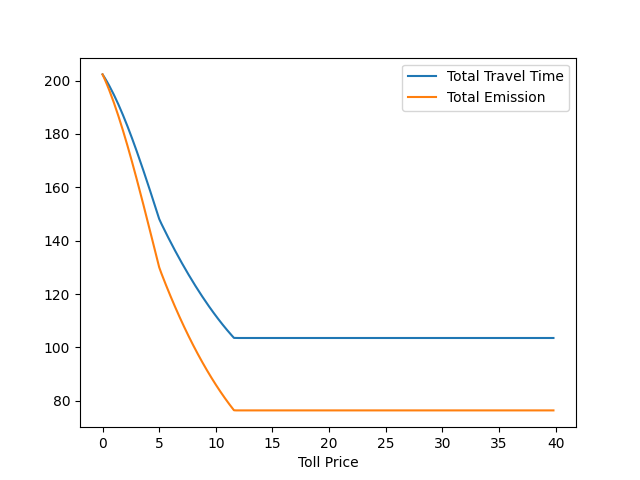
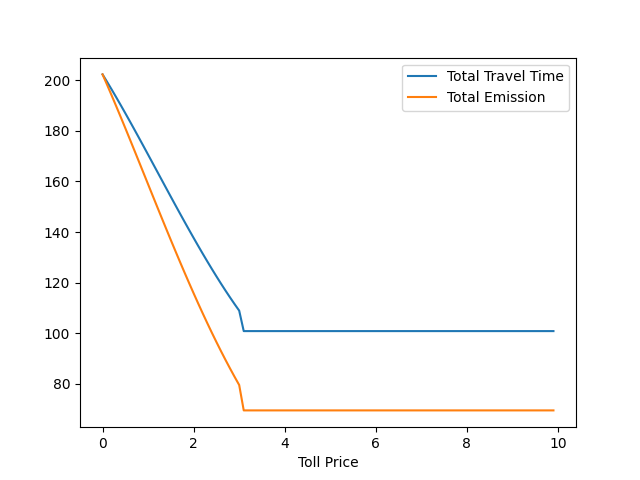
update data calibration pipeline

diff --git a/parameter_calibration.py b/parameter_calibration.py
@@ -17,7 +17,7 @@ df = df.dropna(subset = ["Zone_Toll"])[["dtMsgStartTime2", "siZoneID", "iPlazaID
 df = df.fillna(0)
 df = df[df["siZoneID"] == RELEVANT_ZONE]
 df["Time"] = pd.to_datetime(df["dtMsgStartTime2"]).dt.strftime("%H:%M")
-df = df[(df["Time"] >= RELEVANT_TIME[0]) & (df["Time"] <= RELEVANT_TIME[1])]
+#df = df[(df["Time"] >= RELEVANT_TIME[0]) & (df["Time"] <= RELEVANT_TIME[1])]
 df["Toll"] = df["Zone_Toll"].astype(float)
 df = df[["Time", "Toll"]].groupby(["Time"]).mean().reset_index().sort_values("Time")
 
@@ -30,6 +30,7 @@ df = df[["Time", "Toll"]].groupby(["Time"]).mean().reset_index().sort_values("Ti
 df_pop = pd.read_csv("pop_fraction.csv", thousands = ",")
 sigma_2over1 = df_pop["TwoPeople"].sum() * 2 / df_pop["Single"].sum()
 sigma_3over1 = df_pop["ThreePlus"].sum() * 3 / df_pop["Single"].sum()
+sigma_2over3 = (df_pop["TwoPeople"].sum() * 2) / (df_pop["ThreePlus"].sum() * 3)
 
 ## Load station data
 #df_station = pd.read_csv("d04_text_meta_2021_03_19.txt", sep = "\t")
@@ -48,64 +49,65 @@ df_flow = df_flow[(df_flow["Direction"] == "N") & (df_flow["Freeway"] == 880) & 
 df_flow = df_flow[df_flow["Station"].isin(RELEVANT_STATIONS)]
 df_flow["Time"] = pd.to_datetime(df_flow["Timestamp"]).dt.strftime("%H:%M")
 df_flow["HOV Flow"] = df_flow["Lane 0 Flow"]
-df_flow["HOV Avg Speed"] = df_flow["Lane 0 Avg Speed"]
+## convert per hour speed to per minute speed
+df_flow["HOV Avg Speed"] = df_flow["Lane 0 Avg Speed"] / 60
 df_flow["HOV Travel Time"] = df_flow["StationLength"] / df_flow["HOV Avg Speed"]
 df_flow["Ordinary Flow"] = 0
 df_flow["Ordinary Avg Speed"] = 0
 for i in range(1, num_lanes):
     df_flow["Ordinary Flow"] += df_flow[f"Lane {i} Flow"]
-    df_flow["Ordinary Avg Speed"] += df_flow[f"Lane {i} Avg Speed"]
+    df_flow["Ordinary Avg Speed"] += df_flow[f"Lane {i} Avg Speed"] / 60
 df_flow["Ordinary Avg Speed"] /= num_lanes
 df_flow["Ordinary Travel Time"] = df_flow["StationLength"] / df_flow["Ordinary Avg Speed"]
 df_all = df.merge(df_flow, on = "Time")
+df_all["Hour"] = df_all["Time"].apply(lambda x: int(x.split(":")[0]))
+## Get total toll price, total distance, and total travel time of the selected line segment at each time (5-min)
 df_all_timetoll_gb = df_all[["Time", "Toll", "StationLength", "HOV Travel Time", "Ordinary Travel Time"]].groupby(["Time", "Toll"]).sum().reset_index()
 avg_toll = df_all_timetoll_gb["Toll"].mean()
-print("Ordinary Travel Time", df_all_timetoll_gb["Ordinary Travel Time"].mean() * 60, "HOV Travel Time", df_all_timetoll_gb["HOV Travel Time"].mean() * 60)
+print("Ordinary Travel Time", df_all_timetoll_gb["Ordinary Travel Time"].mean(), "HOV Travel Time", df_all_timetoll_gb["HOV Travel Time"].mean())
 print("Toll:", avg_toll)
 
 ## Compute latency in mins, use it to infer \beta
-df_all_timetoll_gb["Latency"] = (df_all_timetoll_gb["Ordinary Travel Time"] - df_all_timetoll_gb["HOV Travel Time"]) * 60
+df_all_timetoll_gb["Latency"] = (df_all_timetoll_gb["Ordinary Travel Time"] - df_all_timetoll_gb["HOV Travel Time"])
 beta = (df_all_timetoll_gb["Toll"] / df_all_timetoll_gb["Latency"]).mean()
 print("Beta:", beta)
 
-## Compute flows
-df_all_station_gb = df_all[["Station", "HOV Flow", "Ordinary Flow"]].groupby("Station").sum().reset_index()
-df_all_station_gb["Total Flow"] = df_all_station_gb["HOV Flow"] + df_all_station_gb["Ordinary Flow"]
-print("Flow Avg.", df_all_station_gb[["HOV Flow", "Ordinary Flow", "Total Flow"]].mean().reset_index())
-print("Flow Std.", df_all_station_gb[["HOV Flow", "Ordinary Flow", "Total Flow"]].std().reset_index())
-total_flow = df_all_station_gb["Total Flow"].mean()
-ordinary_flow = df_all_station_gb["Ordinary Flow"].mean()
-hov_flow = df_all_station_gb["HOV Flow"].mean()
+## Compute per hour flows
+df_hour_station_gb = df_all[["Hour", "Station", "HOV Flow", "Ordinary Flow"]].copy()
+### Summing up 5-min flows to 1-hr flows
+df_hour_station_gb = df_hour_station_gb[["Hour", "Station", "HOV Flow", "Ordinary Flow"]].groupby(["Hour", "Station"]).sum().reset_index()
+### Averaging the flows across all stations
+df_hour_flow_gb = df_hour_station_gb.groupby("Hour").mean().reset_index()
 
-## Calibrate parameters
-def solve_gamma2(D, tau, sigma_pool2, sigma_pool3, max_itr = 100, eta = 0.1, eps = 1e-7):
-    x = torch.tensor(0.1, requires_grad = True)
-    itr = 0
-    loss = 1
-    loss_arr = []
-    while itr < max_itr and loss > eps:
-        lhs = x * (1/2 * tau * sigma_pool3 + (3/4 * tau - (tau - x)**2 / tau) * sigma_pool2)
-        rhs = 3/8 * tau ** 2 - 1/2 * (tau - x) ** 2
-        loss = (lhs - rhs) ** 2
-        print(loss)
-        loss_arr.append(float(loss.data))
-        if loss <= eps:
-            break
-        loss.backward()
-        x.data = x.data - eta * x.grad
-        x.grad.zero_()
-    x = float(x.detach().numpy())
-    return x, loss_arr
+## Compute per hour avg toll price
+df_hour_toll_gb = df_all[["Hour", "Toll"]].groupby("Hour").mean().reset_index()
 
-sigma_o = hov_flow / total_flow * (num_lanes - 1)
-sigma_toll = (1 - sigma_o) / (1 + sigma_2over1 + sigma_3over1)
-sigma_pool2 = sigma_toll * sigma_2over1
-sigma_pool3 = sigma_toll * sigma_3over1
-print("sigma_o:", sigma_o, "sigma_toll", sigma_toll, "sigma_pool2", sigma_pool2, "sigma_pool3:", sigma_pool3)
-ugamma3 = 1/2 * avg_toll + 3/4 * sigma_pool2/sigma_pool3
-ugamma2 = 3/8 * avg_toll**2 / (sigma_pool3 * ugamma3)
-#ugamma2, loss_arr = solve_gamma2(total_flow, avg_toll, sigma_pool2, sigma_pool3, max_itr = 100, eta = 1e-4, eps = 1e-7)
-#ugamma3 = 1/2 * avg_toll + (3/4 * avg_toll - (avg_toll - ugamma2)**2 / avg_toll) * sigma_pool2/sigma_pool3
+## Merge to obtain per hour flow & toll prices
+df_hour_flow_toll_gb = df_hour_flow_gb.merge(df_hour_toll_gb, on = "Hour")
+df_hour_flow_toll_gb = df_hour_flow_toll_gb[(df_hour_flow_toll_gb["Hour"] >= 8) & (df_hour_flow_toll_gb["Hour"] <= 17)]
+
+#plt.plot(df_hour_flow_toll_gb["Hour"], df_hour_flow_toll_gb["HOV Flow"], label = "HOV Flow")
+#plt.plot(df_hour_flow_toll_gb["Hour"], df_hour_flow_toll_gb["Ordinary Flow"], label = "Ordinary Flow")
+#plt.legend()
+#plt.show()
+#
+#plt.plot(df_hour_flow_toll_gb["Hour"], df_hour_flow_toll_gb["Toll"])
+#plt.show()
+#
+#assert False
+
+## Compute \ugamma_3 by (\sum_t D_t \sigma_2) / (\sum_t D_t \sigma_3) = r_{2/3}
+ugamma3 = (3 * sigma_2over3 * (df_hour_flow_toll_gb["Toll"] ** 2).sum() + 2 * (df_hour_flow_toll_gb["Toll"] ** 2).sum()) / (4 * df_hour_flow_toll_gb["Toll"]).sum()
+
+## Compute \ugamma_2:
+###     \sigma_o = f_o / D
+###     \sigma_toll + \sigma_2 + \sigma_3 = 1 - \sigma_o
+###     \sigma_toll + 1/2\sigma_2 + 1/3\sigma_3 = f_hov / D
+sigma_o_over_hov = (df_hour_flow_toll_gb["Ordinary Flow"] / (num_lanes - 1)) / df_hour_flow_toll_gb["HOV Flow"]
+r_2over3 = (4 * ugamma3 * df_hour_flow_toll_gb["Toll"] - 2 * (df_hour_flow_toll_gb["Toll"] ** 2)) / (3 * (df_hour_flow_toll_gb["Toll"] ** 2))
+toll_coef = 1 + sigma_o_over_hov
+pool3_coef = ((1 + 1/2 * sigma_o_over_hov) / r_2over3 + (1 + 1/3 * sigma_o_over_hov)) * (r_2over3 > 0.05) + (1 + 1/3 * sigma_o_over_hov) * (r_2over3 < 0.05)
+ugamma2 = ((3/8 * df_hour_flow_toll_gb["Toll"] ** 2).sum() / sigma_3over1 + (pool3_coef/toll_coef * 3/8 * df_hour_flow_toll_gb["Toll"] ** 2).sum()) / (ugamma3 / toll_coef).sum()
 print("ugamma 2:", ugamma2, "ugamma 3:", ugamma3)
 
 #plt.plot(loss_arr)
@@ -119,8 +121,8 @@ df_latency_flow = df_latency[["Hour", "HOV Flow", "Ordinary Flow"]].groupby("Hou
 df_latency_time = df_latency[["Hour", "StationLength", "HOV Travel Time", "Ordinary Travel Time"]].groupby("Hour").sum().reset_index()
 df_latency = df_latency_flow.merge(df_latency_time, on = "Hour")
 df_latency["Ordinary Flow"] = df_latency["Ordinary Flow"] / (num_lanes - 1)
-df_latency["HOVTimePerMile"] = df_latency["HOV Travel Time"] / df_latency["StationLength"] * 60
-df_latency["OrdinaryTimePerMile"] = df_latency["Ordinary Travel Time"] / df_latency["StationLength"] * 60
+df_latency["HOVTimePerMile"] = df_latency["HOV Travel Time"] / df_latency["StationLength"]
+df_latency["OrdinaryTimePerMile"] = df_latency["Ordinary Travel Time"] / df_latency["StationLength"]
 print("Total Distance:", df_latency.iloc[0]["StationLength"])
 
 power = 4

diff --git a/opt_toll_3d.py b/opt_toll_3d.py
@@ -7,9 +7,9 @@ from scipy.stats import multivariate_normal
 import matplotlib.pyplot as plt
 from tqdm import tqdm
 
-UGAMMA2 = 19.536
-UGAMMA3 = 2.510
-BETA = 0.525
+UGAMMA2 = 4.345 #19.536
+UGAMMA3 = 2.463 #2.510
+BETA = 0.361 #0.525
 POWER = 4
 NUM_LANES = 4
 a = 3.9427e-12
@@ -146,7 +146,7 @@ total_emission_lst = []
 total_revenue_lst = []
 loss_lst = []
 tau_lst = []
-for tau in tqdm(np.arange(0, 40, 0.2)):
+for tau in tqdm(np.arange(0, 10, 0.1)):
     sigma_o, sigma_toll, sigma_pool2, sigma_pool3, loss_arr, tau_not_too_large = solve_sigma(tau, rho, max_itr = 2000, eta = 1e-1, eps = 1e-7, min_eta = 1e-10)
     total_travel_time = get_total_travel_time(rho, sigma_o, sigma_toll, sigma_pool2, sigma_pool3)
     total_emission = get_total_emission(rho, sigma_o, sigma_toll, sigma_pool2, sigma_pool3)
